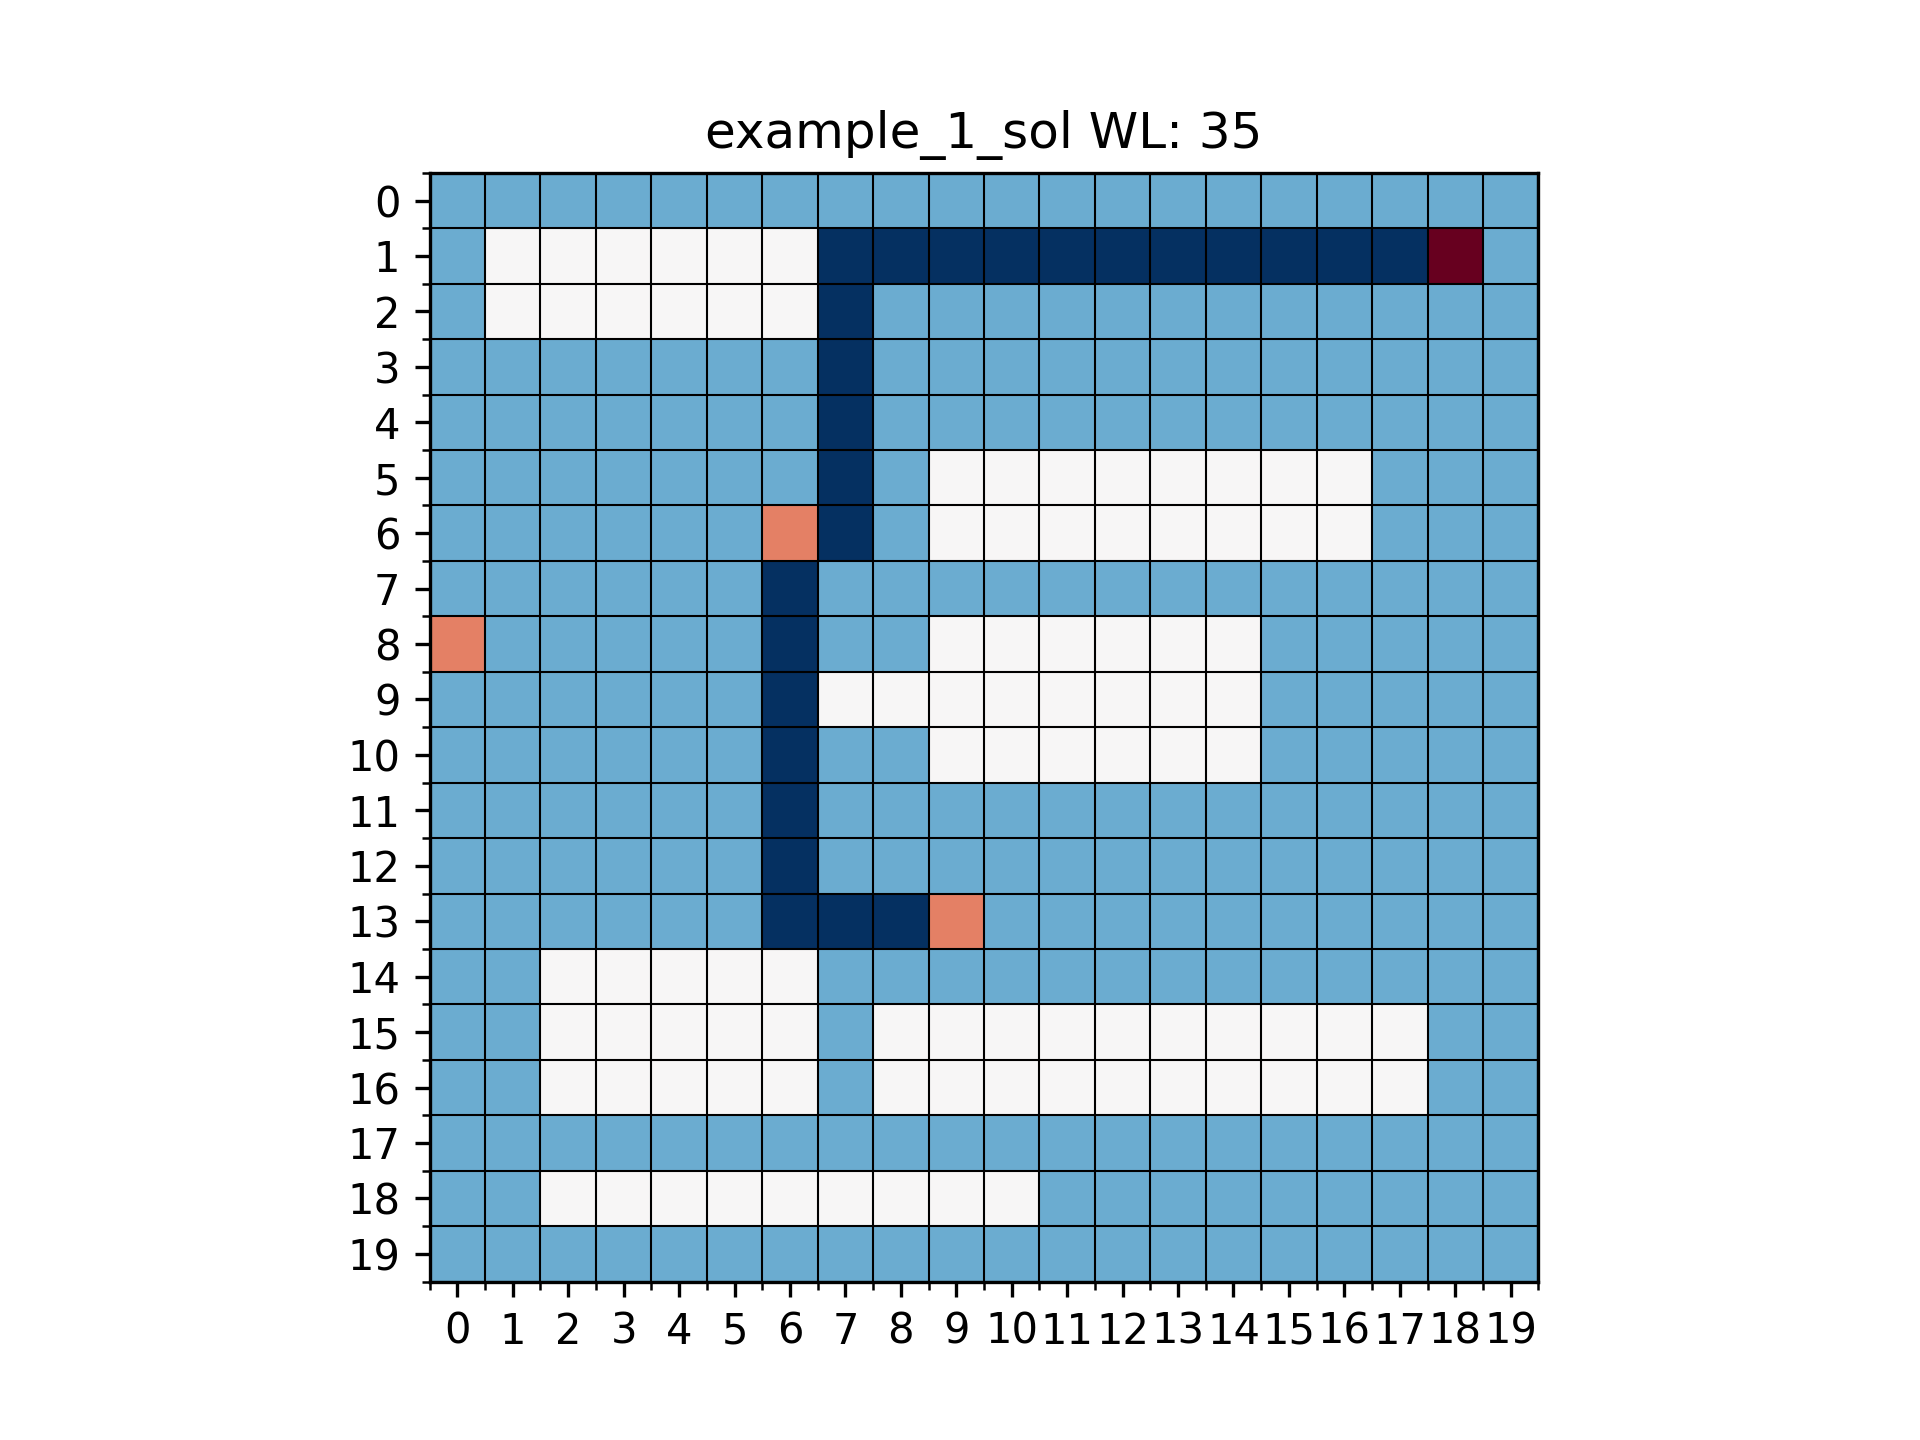
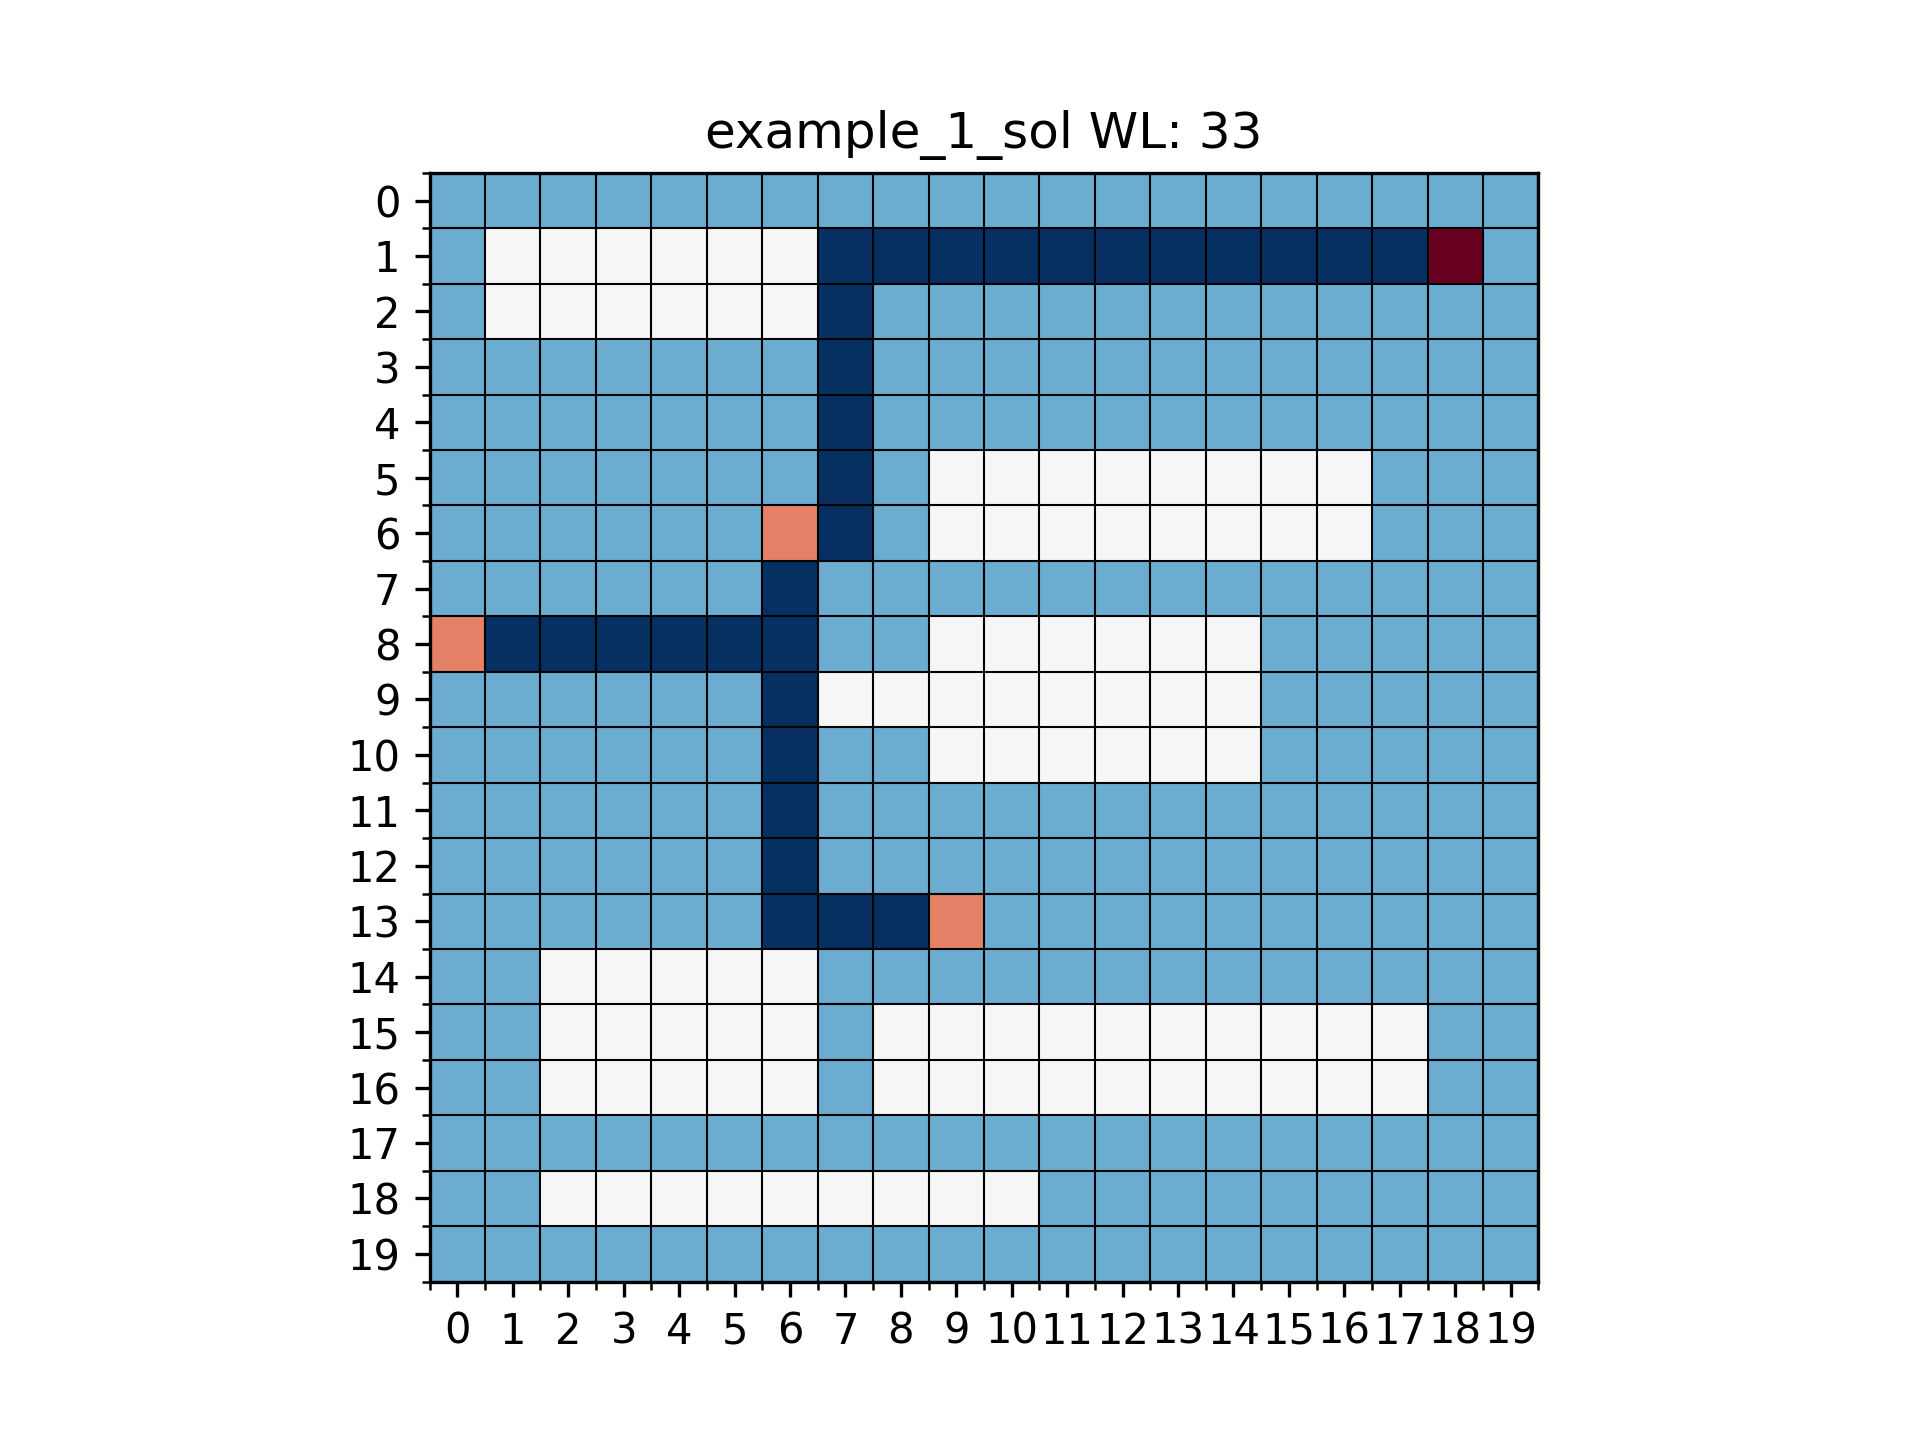
finish multi-pin A star search

Changed region(s): [[0.25, 0.4062, 0.4062, 0.4688]]

diff --git a/A_Star_Search/student_impl/eid_xz7622.py b/A_Star_Search/student_impl/eid_xz7622.py
@@ -374,26 +374,34 @@ class A_Star_Search(A_Star_Search_Base):
                                 node_path.put(neighbor) # add neighbor to open list, green
                                 node_record[neighbor.pos] = neighbor
             
-            if j == 0:
-                # tracknode = self._backtrack(sink_node)
-                for k in range(len(tracknode)):
-                    path_list.append(tracknode[k])
-                wirelength_list.append(len(tracknode) - 1)
-            else:
+            # if j == 0:
+            #     # tracknode = self._backtrack(sink_node)
+            #     for k in range(len(tracknode)):
+            #         path_list.append(tracknode[k])
+            #     wirelength_list.append(len(tracknode) - 1)
+            if j != 0:
                 tracknode.reverse()
-                for k in range(len(tracknode)):
-                    path_list.append(tracknode[k])
-                wirelength_list.append(len(tracknode) - 1)
+
+            # for k in range(len(tracknode)):
+            #     path_list.append(tracknode[k])
+            for k in range(len(self._merge_path(tracknode))):
+                path_list.append(self._merge_path(tracknode)[k])
+            wirelength_list.append(len(tracknode) - 1)
+            # print("tracknode: ", tracknode)
+            # print("merge tracknode: ", self._merge_path(tracknode))
+            
 
             visited_node_list.append(visited_node)
 
                 # path_list.append(tracknode)
 
         # path_list = self._backtrack(sink_node)
-        wirelength = len(path_list) - 1
+        # wirelength = len(path_list) - 1
+        wirelength = sum(wirelength_list)
 
         # print(connect_net)
         # print("path list:", path_list)
         # print("merge path:", self._merge_path(path_list))
 
-        return (self._merge_path(path_list), wirelength, wirelength_list, visited_node_list)
+        # return (self._merge_path(path_list), wirelength, wirelength_list, visited_node_list)
+        return (path_list, wirelength, wirelength_list, visited_node_list)
